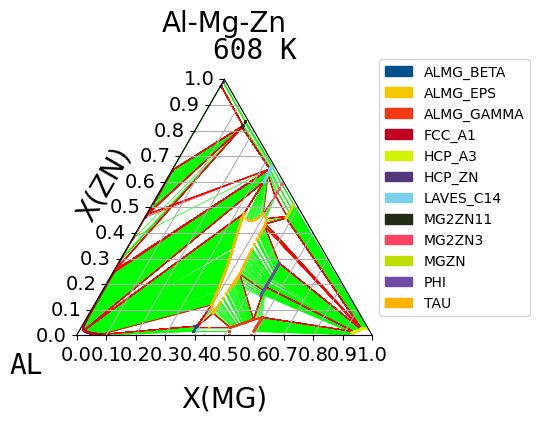
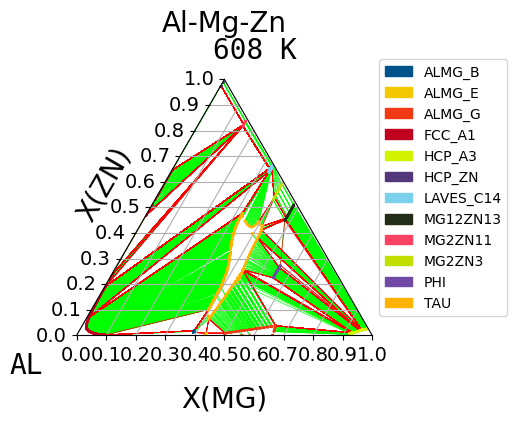
WSL2(ubuntu 22.04 LTS) on win11

Changed region(s): [[0.0619, 0.0, 0.9903, 0.8605], [0.3404, 0.8913, 0.5261, 0.9835], [0.0, 0.8298, 0.0619, 0.8913]]

diff --git a/Al-Mg-Zn/ternary-AlMgZn.py b/Al-Mg-Zn/ternary-AlMgZn.py
@@ -4,9 +4,8 @@ from pycalphad import Database, ternplot
 from pycalphad import variables as v
 
 #------User input area--------
-#tdb_file = 'cost507R.TDB' # from OpenCALPHAD
-#tdb_file = 'modified_almgzn_hay.tdb' # from CPDDB (modifiled)
-tdb_file = 'Qiu_2015_en.TDB' # from CPDDB (modifiled)
+tdb_file = 'modified_almgzn_hay.tdb' # from CPDDB (modifiled)
+#tdb_file = 'Qiu_2015_en.TDB' # from CPDDB (modifiled)
 ELA = 'Mg' # x-axis
 ELB = 'Al' # lower left side
 ELC = 'Zn' # y-axis
